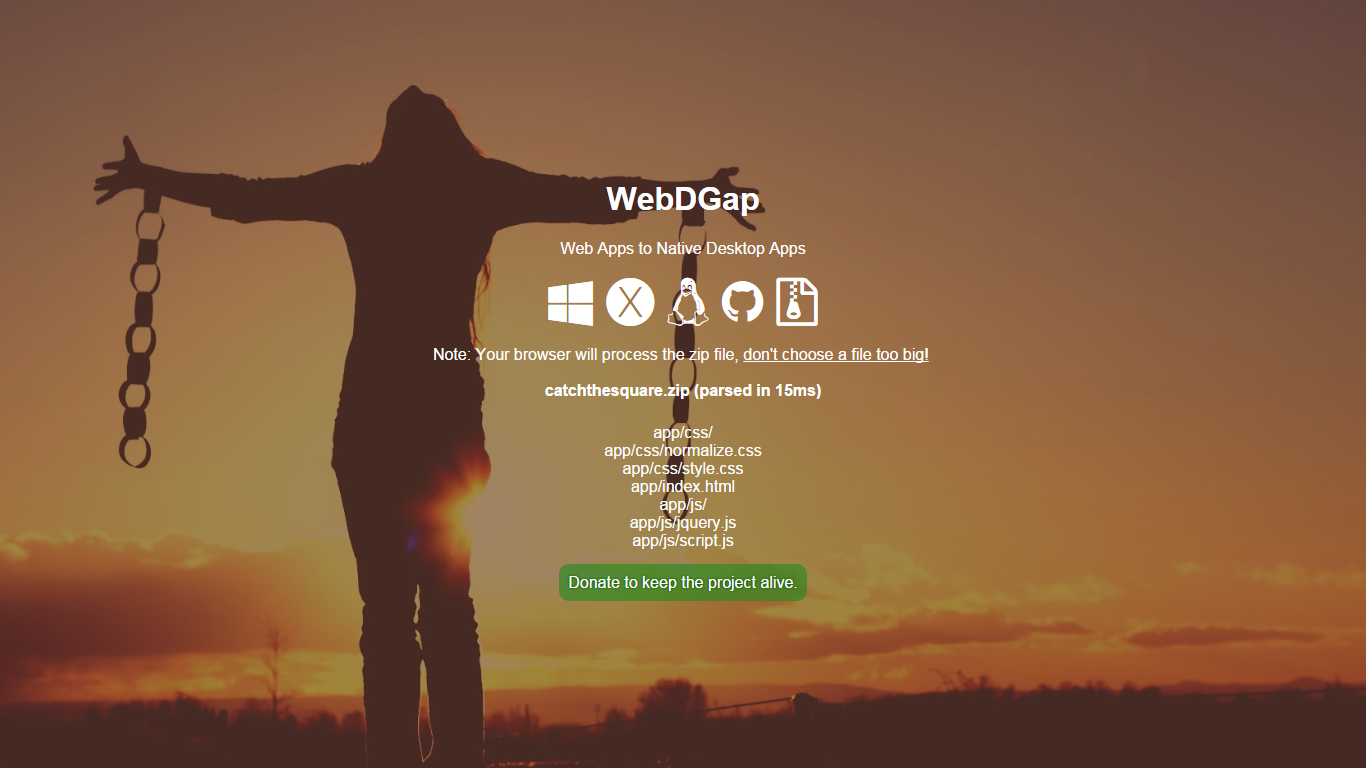
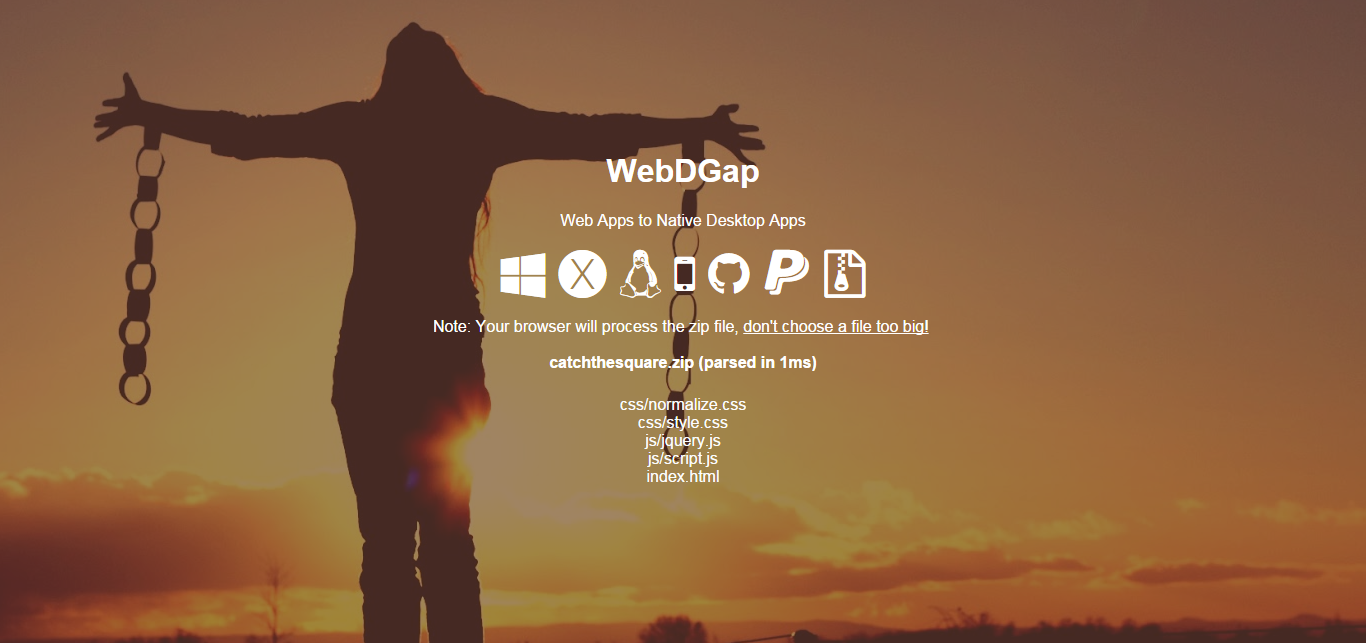
Responsive UI Changes

diff --git a/css/style.css b/css/style.css
@@ -20,13 +20,17 @@ a {
 
 /* Main Greeting */
 .head {
+  position: absolute;
+  top: 0;
+  bottom: 0;
   width: 100%;
   height: 100%;
   background-image: url("../freedom-in-the-shape-of-a-cross.jpg");
   background-position: center center;
   background-repeat: no-repeat;
+  overflow: auto;
 }
-.column > header {
+.column > div {
   display: table;
   position: absolute;
   width: 100%;
@@ -38,7 +42,7 @@ a {
   overflow: hidden;
   font-size: 16px;
 }
-.column > header a {
+.column > div a {
   color: #fff;
   font-size: 3em;
 }

diff --git a/index.html b/index.html
@@ -23,7 +23,7 @@
     
     <!-- Main Display -->
     <header class="head column">
-      <header>
+      <div>
         <nav>
           <h1>
             WebDGap
@@ -81,7 +81,7 @@
             </div>
           </p>
         </nav>
-      </header>
+      </div>
     </header>
     
     <script type="text/javascript" src="js/script.js"></script>
